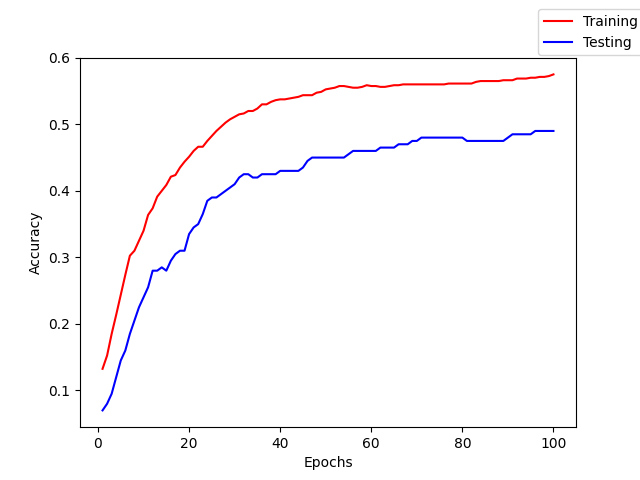
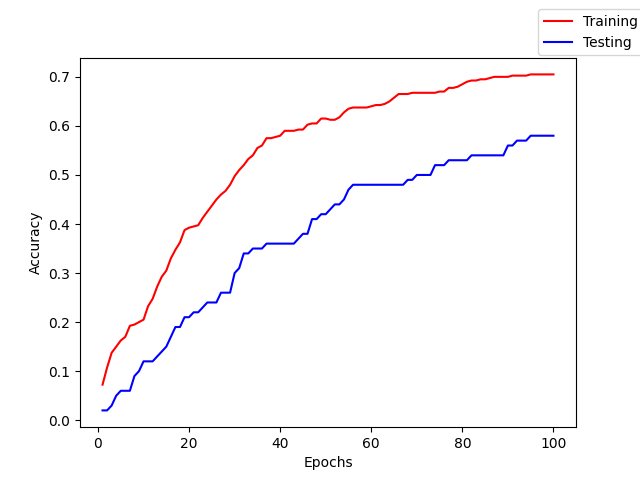
Finalizing tests for the the neural network

diff --git a/main.py b/main.py
@@ -67,9 +67,9 @@ def run_NN(name, alpha, decay, node_option, domain, instances, epochs,
 def test_NN():
 
     epochs = 100
-    instances = 200
+    instances = 100
 
-    domains = [load_EMG_data, load_optdigits_data]
+    domains = [load_optdigits_data, load_EMG_data]
     for domain in domains:
 
         (X, Y) = domain(instances)
